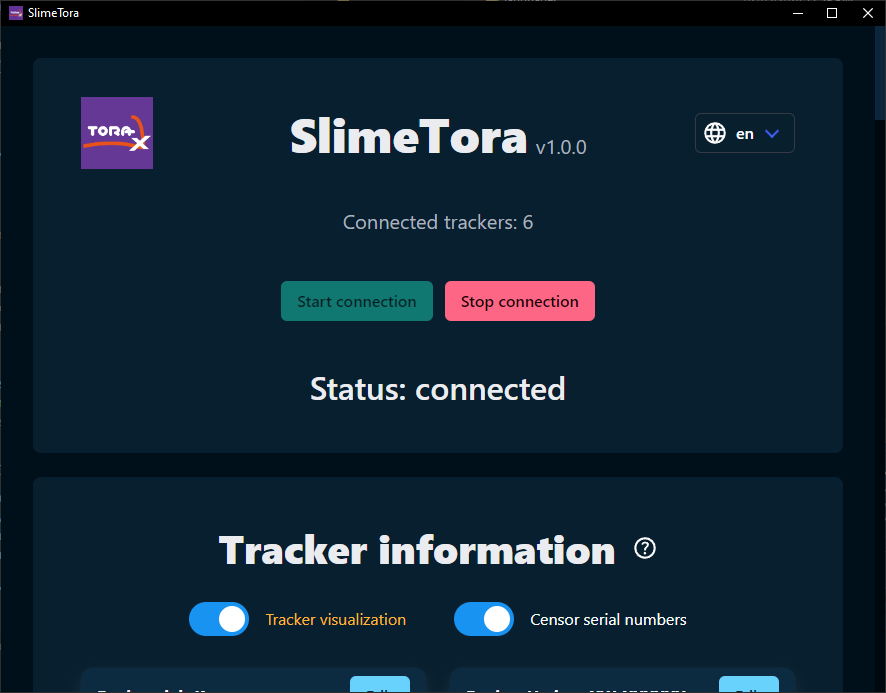
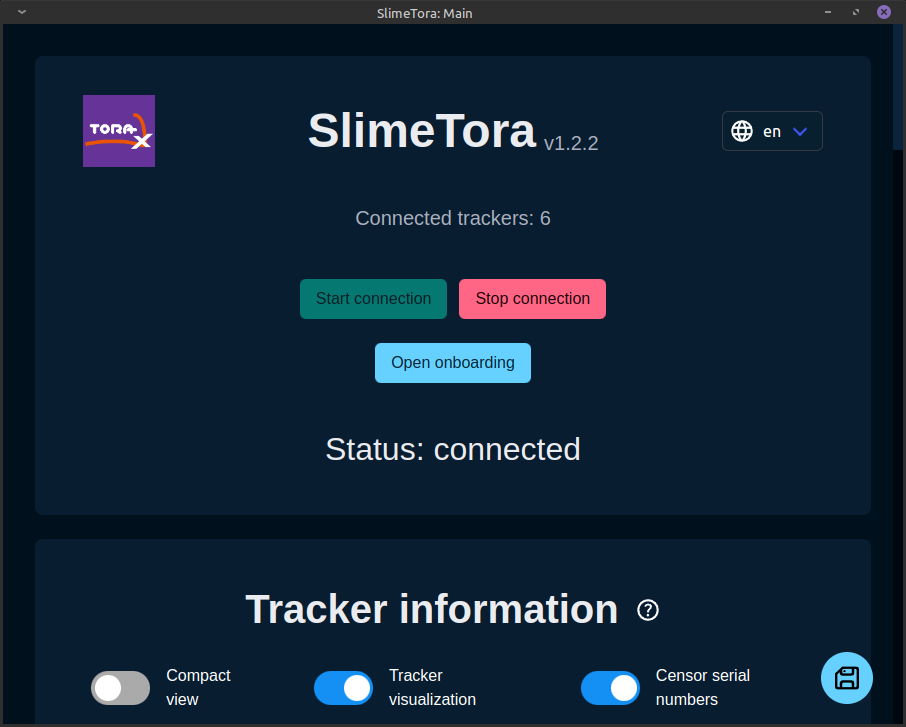
Update SlimeTora page for v1.2.0 (#301)
* Update SlimeTora page for v1.2.0

* Apply suggestions from code review

* Fix manual driver install instructions

and link to the general setup page

* Fix duplicate instruction

and fix that one space in initial setup

---------

diff --git a/src/tools/slimetora.md b/src/tools/slimetora.md
@@ -4,27 +4,40 @@ SlimeTora is a program that connects the HaritoraX trackers to the SlimeVR serve
 
 ![Screenshot of the app's main section showing the status and amount of trackers connected (6 trackers)](../assets/img/SlimeTora.png)
 
+## Prerequisites
+
+- A PC and VR headset capable of running/streaming SteamVR (Windows/Linux)
+  - Optionally, you can instead use OSC in SlimeVR to forward the data to a standalone HMD (e.g. Quest, Pico, etc).
+- A supported set of HaritoraX trackers (see [this](https://github.com/OCSYT/SlimeTora/wiki/FAQ#what-devices-are-supported) for the supported models)
+- Latest version of [SlimeTora](https://github.com/OCSYT/SlimeTora/releases/latest)
+- Latest version of [SlimeVR server](https://github.com/SlimeVR/SlimeVR-Server/releases/latest)
+  - **New to SlimeVR and SlimeVR server?** Read the SlimeVR basics wiki page [here](https://github.com/OCSYT/SlimeTora/wiki/SlimeVR).
+- Latest version of [HaritoraConfigurator](https://shop.shiftall.net/en-us/products/haritoraconfigurator-global)
+  - The trackers must be paired/connected via the software at least once (and to make sure connections are working).
+
 ## Setup
 
 > More details on setting up the software can be found on SlimeTora's `Getting Started` wiki page: [https://github.com/OCSYT/SlimeTora/wiki/Getting-Started](https://github.com/OCSYT/SlimeTora/wiki/Getting-Started)
 
 ### SlimeTora setup
 
-> Your trackers must be paired/connected via the HaritoraConfigurator at least once to work. This is also done to make sure there are no issues with the trackers connecting to the PC in general.
-
-- Download the latest release of SlimeTora in the [releases](https://github.com/OCSYT/SlimeTora/releases) tab.
-- Extract the zip archive into its own folder and run the program (`SlimeTora.exe`).
-- Under "Program settings", modify them to your setup:
+- Download the latest release of the app in SlimeTora's [releases](https://github.com/OCSYT/SlimeTora/releases/latest) page.
+- Extract the zip archive into its own folder and run the program (`SlimeTora[.exe]`).
+  - On Linux, make sure to mark the binary as executable: `chmod +x ./SlimeTora`
+- The "onboarding" screen will appear. Choose how you want to set up SlimeTora, automatic or manual.
+  - Automatic setup is recommended and will guide you through the setup process in-app. You may skip the following instructions and focus on the app's instructions instead.
+  - If you would like to set it up manually (or automatic setup does not work for whatever reason), read on.
+- Press "Manual setup (skip)" and scroll down to "Program settings":
   - Select the model of HaritoraX trackers you have under "Tracker model" (`HaritoraX Wireless`/`HaritoraX 1.1b/1.1/1.0`).
   - Select the supported connection mode you want to use to connect to your trackers (`Bluetooth`/`COM / GX(6/2)`).
-    - These two modes can also be used at the same time if using the `HaritoraX Wireless`.
+    - These two modes can also be used at the same time if on `HaritoraX Wireless`.
   - (`COM`/`HaritoraX 1.1b/1.1/1.0`) Select the COM port your bluetooth adapter has assigned the trackers to.
-    - This can be found in HaritoraConfigurator's "communication settings".
-  - (`GX(6/2)` dongles) Select up to 4 COM ports that your trackers are on (3 if only using GX6, 4 if using GX6+GX2).
-    - Usually, this is the first four (consecutive) available ports. `COM1`/`COM2` are usually already used by other devices, so the ports are likely `COM3`, `COM4`, `COM5` (and `COM6` for GX2).
+    - The port for the `HaritoraX 1.1b/1.1/1.0` (wired) trackers can be found in HaritoraConfigurator's "communication settings".
+  - (`COM`/`GX(6/2)`/`HaritoraX Wireless`) Select up to 4 COM ports that your trackers are on (3 if only using GX6, 4 if using GX6+GX2).
+    - Usually, this is the first four (consecutive) available ports. Some COM ports (e.g. `COM1`) are usually already used by other devices like your motherboard, so the ports are likely `COM2`, `COM3`, `COM4` (and `COM5` for GX2).
     - Check `Device Manager` to see what ports are being used by the trackers as `USB Serial Device`s.
-- Change the program's settings to your liking (see [this](https://github.com/OCSYT/SlimeTora/wiki/Settings)).
-- Continue to `SlimeVR setup`.
+- Change the program's settings to your liking (see [this](https://github.com/OCSYT/SlimeTora/wiki/Settings) for explanations).
+- Continue to [SlimeVR setup](#slimevr-setup).
 
 ### SlimeVR setup
 
@@ -33,16 +46,14 @@ SlimeTora is a program that connects the HaritoraX trackers to the SlimeVR serve
   - Accept all popups that mention a "new tracker" was detected at any point during the setup (these are your trackers!)
   - Skip the `Input Wi-Fi credentials` screen by pressing `Skip Wi-Fi settings`.
   - Press `I put stickers and straps!`.
-  - Assign the trackers to your body (shake to identify the trackers).
-  - (**IMPORTANT**) Perform `Automatic Mounting` to calibrate the mounting positions.
+  - Assign the trackers to your body (shake to identify the trackers, or physically double tap them).
+  - Perform `Automatic Mounting` to calibrate the mounting positions.
+    - Manual mounting seems to be quite finicky and you may need to mess with it to get it right (which is why automatic is recommended)
   - Choose a proportion calibration method (automatic/manual).
 - If this isn't your first time (or skipped initial setup):
   - Accept all popups that mention a "new tracker" was detected (these are your trackers!)
-  - Assign the trackers to your body (shake to identify the trackers) in `Tracker Assignment`.
-  - Perform a `mounting reset` (you should be in a ski pose) or perform an `Automatic Mounting` calibration.
-- If you experience lower-body tracking issues:
-  - Open SlimeVR server's settings, disable `Automatic tracker assignment`, and disable both knees under `SteamVR trackers`.
-  - This isn't necessary, but this may help fix certain tracking issues especially when sitting/laying.
+  - Assign the trackers to your body (shake to identify the trackers, or physically double tap them) in `Tracker Assignment`.
+  - Perform an `Automatic Mounting` calibration or a `mounting reset` (you should be in the ski pose).
 - Check out the rest of SlimeVR and its settings, and you're done!
 
 ## Troubleshooting & FAQ
@@ -51,24 +62,38 @@ SlimeTora is a program that connects the HaritoraX trackers to the SlimeVR serve
 
 ### I'm stuck on "searching" forever!
 
-Make sure HaritoraConfigurator is closed. Both SlimeTora and HaritoraConfigurator should not be open at the same time.
+If on the `HaritoraX Wired` or `HaritoraX Wireless` with any of the `GX(6/2)` dongles, make sure the correct COM ports have been selected (refer to [this](https://github.com/OCSYT/SlimeTora/wiki/Getting-Started)). Also, HaritoraConfigurator should be closed; both SlimeTora and HaritoraConfigurator should not be open at the same time as more than one app cannot communicate with a COM port at a time.
+
+If you are using the `HaritoraX Wireless` with any of the `GX(6/2)` dongles and you don't have all your trackers connected, you may experience a ~5 second delay before the program actually finds your trackers (instead of being instant) from `v1.2.0` and upwards. This is due to backend changes with `haritorax-interpreter`, it should eventually connect to your trackers however it may or may not be buggy. It is highly recommended you turn on all your trackers before starting a connection - this logic will be redone at some point to prevent this.
 
 ### Some of my trackers aren't connecting to SlimeTora!
 
-The most common fix for this is to open the `HaritoraConfigurator` software and make sure they are paired/can connect to the trackers before connecting via SlimeTora again. Unsure why this happens, but this is the most likely fix for you (other than the [general checklist](https://github.com/OCSYT/SlimeTora/wiki/Troubleshooting#general-checklist)).
+The most common fix for this is to open the `HaritoraConfigurator` software and make sure they are paired/can connect to the trackers before connecting via SlimeTora again. Unsure why this happens, but this is the most likely fix for you (other than the general checklist) - this especially applies for `HaritoraX Wireless` users using any of the `GX(6/2)` dongles.
+
+If you are using Bluetooth (Classic/LE), the trackers have a pretty large delay when you stop the connection on SlimeTora. This is especially noticeable when you restart the connection quickly as the trackers will have not fully disconnected yet. Make sure to wait at least 10 seconds before attempting a reconnection, or wait until the tracker LEDs indicate it has disconnected (slow blinking).
 
 ### My legs (or other parts) are going backwards!
 
-Double check your tracker assignments and make sure you have done `Automatic mounting calibration` in SlimeVR server. Manual mounting calibration does not seem to work well for these trackers.
+Double check your tracker assignments and make sure you have done `Automatic mounting calibration` in SlimeVR server - you may want to attempt it multiple times if the first doesn't work. Manual mounting calibration seems to be a bit finicky with the trackers and may need some messing with to get right.
 
-### My lower-body tracking is off, especially when sitting/laying!
+### My full body tracking is off!
 
-Try disabling the knees in SlimeVR's settings under `SteamVR Trackers` to see if it helps (disable `Automatic tracker assignment` then disabling both knees). The knee trackers will still be used for the skeletal tracking in SlimeVR but not appear as extra trackers in SteamVR, which *may* help with some tracking issues in your lower-body.
+The most likely cause for this is an incorrect calibration - try to redo the calibration steps in SlimeVR to improve the results. The following video by ZRock35 is a great guide on how to get the best results for SlimeVR calibration: [https://www.youtube.com/watch?v=SYqfQdVseF4](https://www.youtube.com/watch?v=SYqfQdVseF4)
+
+By default, SlimeVR uses the `prediction` filtering setting to estimate where your trackers will be, so switching from it to `smoothing` or `no filtering` may also help with the trackers being out-of-place (unconfirmed).
+
+If you are experiencing issues specifically with lower-body, it is still usually a calibration issue so as mentioned above, try to redo the calibration. You may also try disabling the knees in SlimeVR's settings under `SteamVR Trackers` to see if it helps (disable `Automatic tracker assignment` then disabling both knees). The knee trackers will still be used for the skeletal tracking in SlimeVR but not appear as extra trackers in SteamVR, which _may_ help with some tracking issues in your lower-body.
 
 ### My trackers are not aligned correctly to my body!
 
-Make sure you've done the `Body proportions calibration` correctly, either manually or automatically, and also make sure you have done `Automatic mounting calibration`, **NOT** manual. You can also change settings in the game you are running (e.g. VRChat's IK settings like `Legacy calibration`) or change the positions of the trackers physically.
+Make sure you've done the `Body proportions calibration` correctly, either manually or automatically, and also make sure you have done `Automatic mounting calibration` (as manual mounting is quite finicky with these trackers). You can also change settings in the game you are running (e.g. VRChat's IK settings like `Legacy calibration`) or change the positions of the trackers physically.
 
 If running VRChat, there are some recommended settings for it [here](./vrchat-config.md).
 
-*Written by JovannMC, software developed by BracketProto & JovannMC*
+### "Automatic proportions" is disabled/trackers won't show up in SteamVR!
+
+Assuming of course you have your VR headset on at this stage, make sure the SlimeVR add-on in SteamVR has been installed/enabled correctly. You can check this by looking for `slimevr` in SteamVR settings > Manage Add-ons and enable if it disabled. If it is not installed correctly and isn't showing up, try reinstalling the SlimeVR server.
+
+You may also install the SlimeVR add-on manually by downloading the [latest release](https://github.com/SlimeVR/SlimeVR-OpenVR-Driver/releases/latest) of the driver, then copying the `slimevr` folder from the archive into `C:\Program Files (x86)\Steam\steamapps\common\SteamVR\drivers\` for Windows or `~/.steam/root/steamapps/common/SteamVR/drivers/` for Linux (create the `slimevr` directory if it doesn't exist).
+
+_Written by JovannMC, software developed by BracketProto & JovannMC_

diff --git a/src/server/initial-setup.md b/src/server/initial-setup.md
@@ -1,6 +1,6 @@
 # Initial Setup
 
-This guide should help you with installing the SlimeVR Server and getting things se tup so that everything is functioning as it should.
+This guide should help you with installing the SlimeVR Server and getting things set up so that everything is functioning as it should.
 
 ## Install the Latest SlimeVR Installer
 The latest [SlimeVR Installer can be found here.](https://slimevr.dev/download) Download it and install it, this installer can be used to update the server software in the future.
